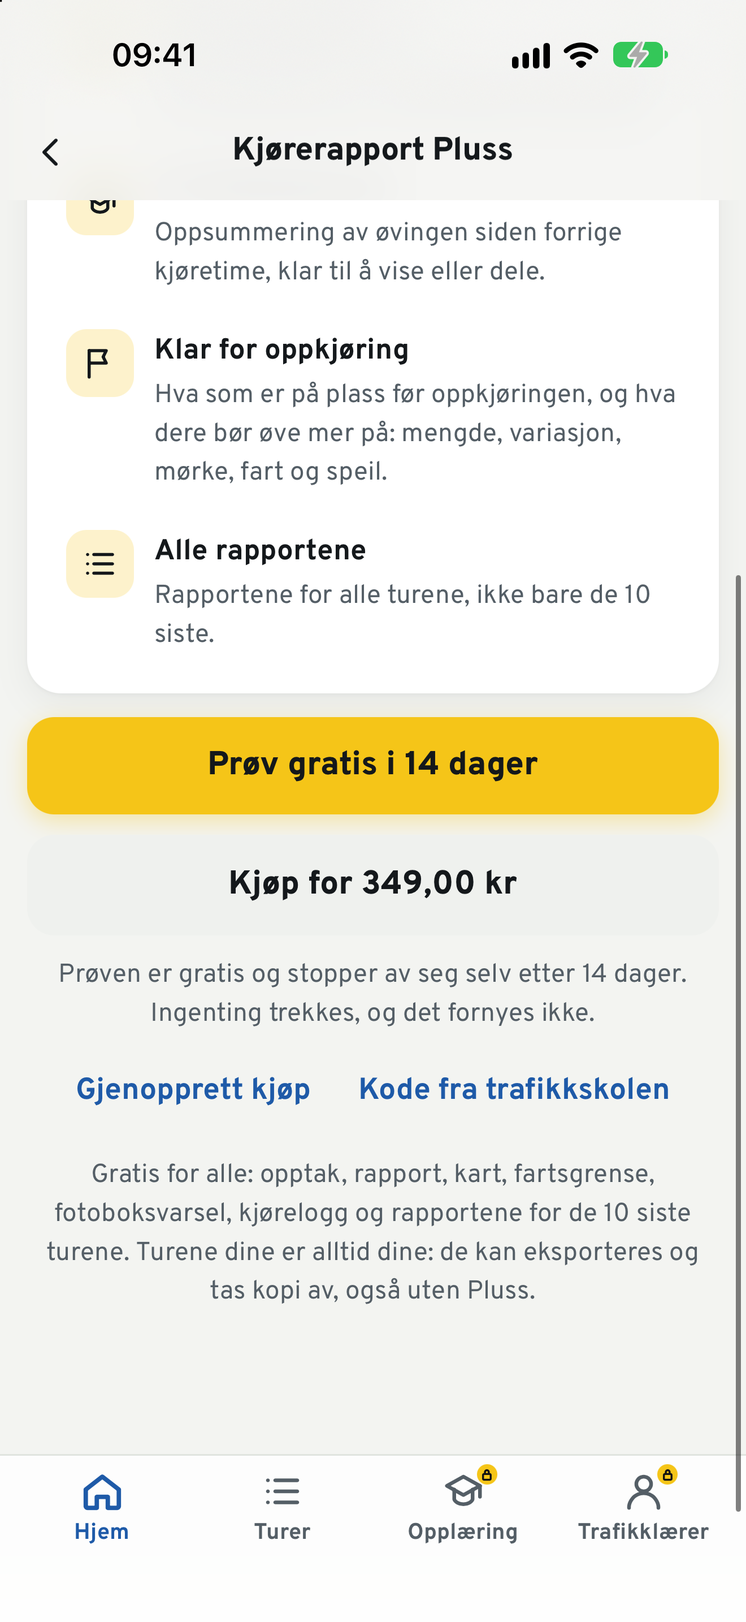
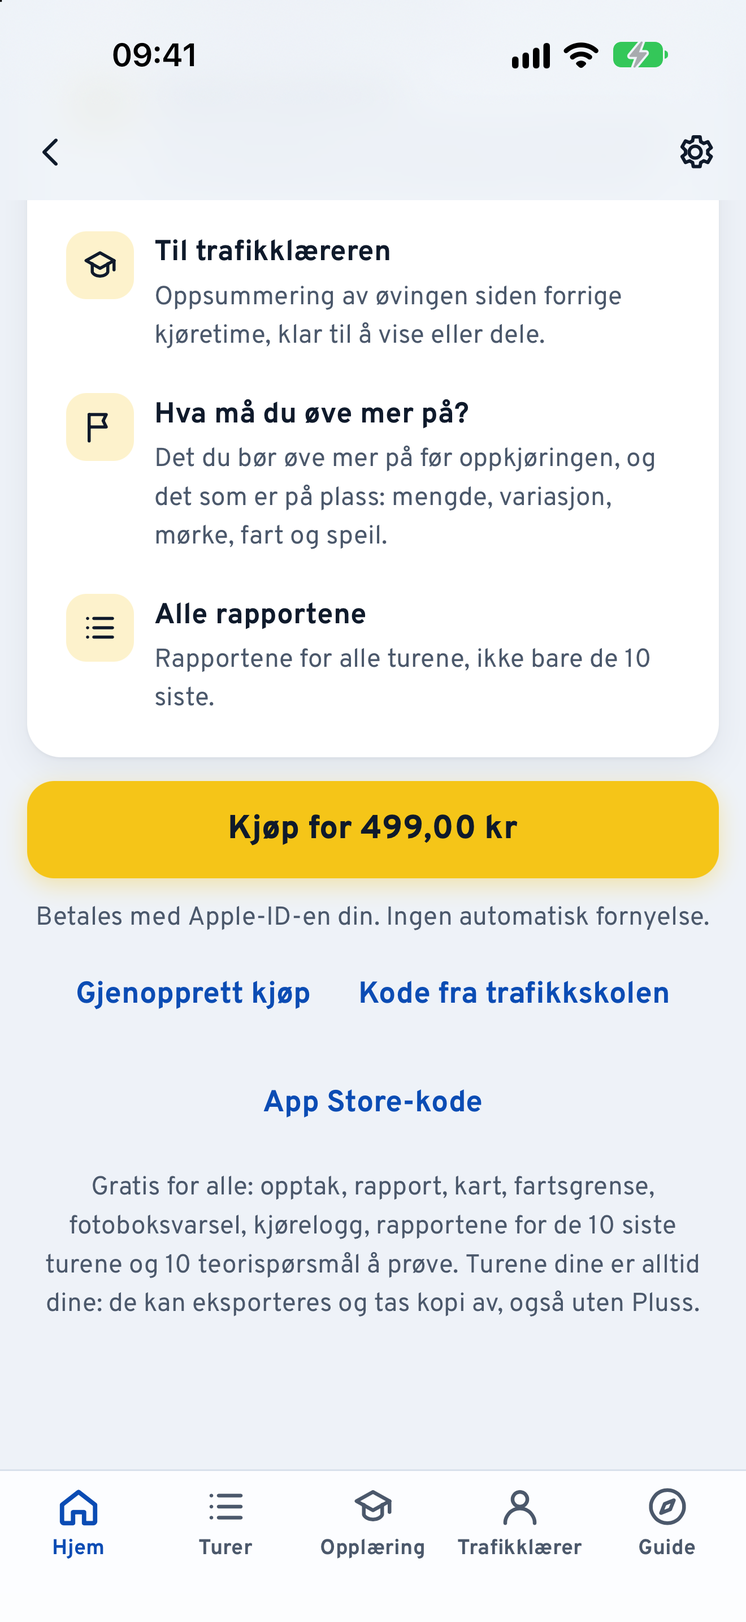
1.0.0: new App Store screenshots, and the full-screen map reaches the bottom edge
- Eight new App Store images for 1.0.0, theory first, in the «Skilt og vei» colours, made from the Emma test data; the Pluss review image retaken; the screenshot tools updated.
- The full-screen map in the iPhone app no longer stops above the home indicator: the map fills the screen, and its buttons and source line move in by the safe area.

diff --git a/appstore/verktoy/seed.js b/appstore/verktoy/seed.js
@@ -1,39 +1,74 @@
-// Testdata til App Store-bildene (bare testbygg, KJ_EVAL). Øvingsturer laget av demoturen, lagt langs ekte gater.
+// Testdata til App Store-bildene (bare testbygg, KJ_EVAL). Den oppdiktede eleven Emma, som i demoen (js/demo.js), men i
+// den vanlige lagringen, så demolinjen «Demo med Emma» ikke vises: åtte øvingsturer langs offentlige gater i Trondheim
+// som blir roligere over tid, teori med tre prøver og en prøvedato, og Pluss på. Ingenting her er ekte.
+// 1.0.0 (22.11.2026): sletter alle turer og innstillinger i simulatorappen første gang.
 (async () => {
-  const plus = await import(new URL('js/plus.js', location.href).href);
-  plus.setDevPlus(true);
-  if (localStorage.getItem('kjShotsSeeded') === '6') return;
-  const db = await import(new URL('js/db.js', location.href).href), an = await import(new URL('js/analysis.js', location.href).href);
-  const ROUTE = [[63.43084, 10.39516], [63.43084, 10.39508], [63.43085, 10.39489], [63.43089, 10.39487], [63.43121, 10.39469], [63.43151, 10.39453], [63.4316, 10.39448], [63.43186, 10.39433], [63.43194, 10.39429], [63.43196, 10.39428], [63.43205, 10.39422], [63.43213, 10.39418], [63.4325, 10.39398], [63.43274, 10.39384], [63.43308, 10.39365], [63.43314, 10.39362], [63.43317, 10.39359], [63.43328, 10.39353], [63.43333, 10.39351], [63.43343, 10.39345], [63.43355, 10.3934], [63.43363, 10.3934], [63.43371, 10.39342], [63.43382, 10.39353], [63.43382, 10.39354], [63.43387, 10.39363], [63.43391, 10.39373], [63.43412, 10.39443], [63.43427, 10.39505], [63.43434, 10.39537], [63.43436, 10.39555], [63.43438, 10.3957], [63.43441, 10.39593], [63.43448, 10.39683], [63.43448, 10.39686], [63.43449, 10.3971], [63.4345, 10.39727], [63.43453, 10.39769], [63.43458, 10.39843], [63.43459, 10.39856], [63.43463, 10.39918], [63.43468, 10.39986], [63.43469, 10.39992], [63.4347, 10.40021], [63.4348, 10.40018], [63.43489, 10.40015], [63.43491, 10.40014], [63.43506, 10.40012], [63.4352, 10.40009], [63.43539, 10.40006], [63.4355, 10.40005], [63.43569, 10.40003], [63.4357, 10.40002], [63.43577, 10.40002], [63.4358, 10.40002], [63.43586, 10.40002], [63.43588, 10.40015], [63.43588, 10.40028], [63.43589, 10.40268], [63.4359, 10.40318], [63.43589, 10.4034], [63.43596, 10.40344], [63.43606, 10.40353], [63.43607, 10.40354], [63.43612, 10.40358], [63.43617, 10.40364], [63.43617, 10.40365], [63.43649, 10.40407], [63.43661, 10.40425], [63.43663, 10.40428], [63.43669, 10.40445], [63.43673, 10.4046], [63.43676, 10.40472], [63.43679, 10.40487], [63.43684, 10.40514], [63.43687, 10.40539], [63.43689, 10.40609], [63.43689, 10.40611], [63.4369, 10.40637], [63.4369, 10.40641], [63.4369, 10.40658], [63.43691, 10.40678], [63.43691, 10.40698], [63.43692, 10.40704], [63.43695, 10.40843], [63.43697, 10.40916], [63.437, 10.41014], [63.437, 10.4103], [63.43702, 10.41183], [63.43699, 10.41344], [63.43697, 10.41365], [63.43694, 10.41476], [63.43694, 10.41504], [63.43694, 10.41512], [63.43694, 10.41513], [63.43694, 10.41596], [63.43688, 10.41647], [63.43686, 10.41653], [63.43677, 10.41675], [63.43669, 10.41688], [63.43667, 10.41691], [63.43667, 10.41692], [63.4366, 10.41698], [63.43659, 10.41699], [63.43653, 10.41704], [63.43634, 10.41713], [63.43631, 10.41714], [63.43623, 10.41716], [63.43607, 10.41712], [63.43602, 10.41711], [63.436, 10.41705], [63.43598, 10.417], [63.43592, 10.41694], [63.43588, 10.41692], [63.43584, 10.41693], [63.43581, 10.41695], [63.43578, 10.41697], [63.43578, 10.41698], [63.43575, 10.41703], [63.43559, 10.41681], [63.43555, 10.41675], [63.43555, 10.41674], [63.43534, 10.41629], [63.4351, 10.41574], [63.43506, 10.41563], [63.43493, 10.41534], [63.4348, 10.41504], [63.43474, 10.4149], [63.4346, 10.41457], [63.43454, 10.41445], [63.43452, 10.4144], [63.43441, 10.41426], [63.43439, 10.4142], [63.43432, 10.41405], [63.4341, 10.41348], [63.4341, 10.41346], [63.43393, 10.41302], [63.43383, 10.41274], [63.43376, 10.41253], [63.43368, 10.41232], [63.43367, 10.4123], [63.43351, 10.41182], [63.4335, 10.41181], [63.43337, 10.41143], [63.43328, 10.4112], [63.43318, 10.41127], [63.43298, 10.41161], [63.43291, 10.41171], [63.4328, 10.41187], [63.43278, 10.41191], [63.43272, 10.412], [63.43266, 10.4121], [63.43264, 10.41213], [63.43243, 10.41247], [63.43242, 10.41248], [63.43234, 10.41261], [63.43226, 10.41274], [63.43219, 10.41286], [63.43213, 10.41295], [63.43208, 10.41298], [63.43185, 10.4131], [63.43163, 10.41321], [63.43161, 10.41322], [63.43148, 10.41328], [63.43142, 10.41334], [63.4314, 10.41335], [63.43131, 10.41349], [63.43112, 10.4139], [63.43111, 10.41392], [63.43099, 10.41419], [63.43092, 10.41436], [63.43085, 10.41452], [63.4308, 10.41462], [63.4308, 10.41463], [63.43079, 10.41466], [63.43075, 10.41474], [63.43073, 10.41479], [63.43064, 10.41504], [63.43058, 10.4152], [63.43056, 10.41528], [63.43051, 10.41541], [63.43046, 10.41556], [63.43043, 10.41564], [63.43017, 10.4164], [63.43014, 10.4165], [63.43009, 10.41663], [63.42998, 10.41684], [63.42997, 10.41687], [63.42996, 10.4172], [63.42996, 10.41748], [63.42996, 10.41793], [63.42996, 10.418], [63.42996, 10.41802], [63.42995, 10.41807], [63.42994, 10.41809], [63.42993, 10.41808], [63.4297, 10.41746], [63.4297, 10.41745], [63.42946, 10.41681], [63.42946, 10.4168], [63.42927, 10.41631], [63.42926, 10.41629], [63.42925, 10.41628], [63.42922, 10.4162], [63.42907, 10.41607], [63.42903, 10.41605], [63.42898, 10.41604], [63.4286, 10.41615], [63.42842, 10.4162], [63.42789, 10.41635], [63.42787, 10.41635], [63.42776, 10.41638], [63.42753, 10.41644], [63.42688, 10.41661], [63.42667, 10.41666], [63.42649, 10.41671], [63.42648, 10.41672], [63.42635, 10.41675], [63.42619, 10.41679], [63.42598, 10.41685], [63.42593, 10.41686], [63.4259, 10.41687], [63.42589, 10.41687], [63.42572, 10.41692], [63.42568, 10.41693], [63.42563, 10.41694], [63.42562, 10.41694], [63.42561, 10.41694], [63.42553, 10.41696], [63.42543, 10.41697], [63.42541, 10.41698], [63.42538, 10.41698], [63.42511, 10.41697], [63.42489, 10.41678], [63.42463, 10.41651], [63.42457, 10.41645], [63.42439, 10.41626], [63.42377, 10.41564], [63.42365, 10.41547], [63.42354, 10.41532], [63.42347, 10.41522], [63.42336, 10.41504], [63.42319, 10.41472], [63.42318, 10.4147], [63.42315, 10.41464], [63.42307, 10.41445], [63.42304, 10.41438], [63.42303, 10.41436], [63.42291, 10.41406], [63.42288, 10.41396], [63.42287, 10.41395], [63.42285, 10.41388], [63.42283, 10.41382], [63.42276, 10.4136], [63.4226, 10.41316], [63.42258, 10.41282], [63.42258, 10.4128], [63.42259, 10.41274], [63.42259, 10.41272], [63.42261, 10.41263], [63.42264, 10.41253], [63.42266, 10.41251], [63.42272, 10.41241], [63.4229, 10.41228], [63.42291, 10.41227], [63.42304, 10.41217], [63.42326, 10.41201], [63.42331, 10.41198], [63.42332, 10.41198], [63.42354, 10.41183], [63.42359, 10.4118], [63.42393, 10.41157], [63.42395, 10.41159], [63.42399, 10.41166], [63.424, 10.41168], [63.42401, 10.41169], [63.42405, 10.41172], [63.42422, 10.41188], [63.42428, 10.41195], [63.42439, 10.41204], [63.4244, 10.41206], [63.42447, 10.41217], [63.42453, 10.41231], [63.42459, 10.41255], [63.42465, 10.41287], [63.42468, 10.41285], [63.42472, 10.41281], [63.42473, 10.4128], [63.42483, 10.41267], [63.42488, 10.4126], [63.42488, 10.41259], [63.42507, 10.41232], [63.42519, 10.41217], [63.42523, 10.41215], [63.42552, 10.41206], [63.42558, 10.41202], [63.42568, 10.4119], [63.42578, 10.41172], [63.42589, 10.41147], [63.42601, 10.41106], [63.42605, 10.4109], [63.42615, 10.41047], [63.42619, 10.41033], [63.42633, 10.41002], [63.42638, 10.40994], [63.42669, 10.40954], [63.42674, 10.40945], [63.42675, 10.40944], [63.42682, 10.40932], [63.42684, 10.40925], [63.42685, 10.40922], [63.42693, 10.40904], [63.42703, 10.40883], [63.42729, 10.4083], [63.42743, 10.40806], [63.42762, 10.40787], [63.42772, 10.4078], [63.42778, 10.40772], [63.42779, 10.4077], [63.42782, 10.40764], [63.42785, 10.40748], [63.42786, 10.40746], [63.42788, 10.4073], [63.42789, 10.40717], [63.42796, 10.40633], [63.42798, 10.40607], [63.42812, 10.40607], [63.42827, 10.40609], [63.42831, 10.4061], [63.42839, 10.40611], [63.42872, 10.40618], [63.4292, 10.40624], [63.42939, 10.40625], [63.4294, 10.40625], [63.42951, 10.40636], [63.42962, 10.40656], [63.42973, 10.40688], [63.42985, 10.40718], [63.42991, 10.40733], [63.43002, 10.40761], [63.43014, 10.40793], [63.43025, 10.4082], [63.4303, 10.40812], [63.43048, 10.40776], [63.43049, 10.40775], [63.43049, 10.40773], [63.43074, 10.40726], [63.43086, 10.40743], [63.43095, 10.40768], [63.4311, 10.40805], [63.43134, 10.40864], [63.43159, 10.40928], [63.43188, 10.40997], [63.43208, 10.41044], [63.43211, 10.41054], [63.43233, 10.41108], [63.43237, 10.41116], [63.43255, 10.41159], [63.43267, 10.41187], [63.43272, 10.412], [63.43278, 10.41191], [63.4328, 10.41187], [63.43291, 10.41171], [63.43298, 10.41161], [63.43318, 10.41127], [63.43328, 10.4112], [63.43323, 10.41106], [63.43323, 10.41105], [63.43321, 10.41097], [63.43318, 10.41091], [63.43318, 10.41087], [63.43308, 10.41049], [63.4329, 10.41003], [63.43269, 10.40947], [63.43252, 10.40907], [63.43234, 10.40862], [63.43228, 10.40849], [63.43227, 10.40847], [63.43225, 10.40832], [63.43223, 10.4082], [63.43222, 10.40815], [63.43223, 10.40808], [63.43223, 10.40804], [63.43225, 10.40789], [63.43227, 10.40777], [63.43229, 10.40769], [63.4323, 10.40764], [63.43232, 10.40752], [63.43232, 10.4075], [63.43242, 10.40686], [63.43246, 10.40668], [63.43248, 10.4066], [63.43249, 10.40655], [63.43251, 10.4065], [63.43262, 10.40591], [63.43267, 10.40568], [63.43268, 10.40566], [63.4327, 10.40554], [63.43279, 10.40511], [63.43297, 10.40418], [63.43298, 10.40413], [63.43301, 10.40403], [63.43302, 10.40397], [63.43308, 10.40371], [63.43312, 10.40351], [63.43315, 10.40333], [63.4332, 10.40305], [63.43326, 10.40273], [63.43331, 10.40244], [63.43332, 10.40241], [63.43332, 10.40229], [63.43333, 10.40203], [63.43333, 10.40174], [63.43332, 10.40123], [63.43332, 10.40089], [63.43332, 10.40047], [63.43332, 10.40042], [63.43332, 10.4002], [63.43322, 10.40021], [63.43302, 10.4002], [63.43278, 10.40019], [63.4327, 10.40019], [63.43266, 10.40019], [63.43202, 10.40019], [63.432, 10.40019], [63.43192, 10.40019], [63.43192, 10.4], [63.43192, 10.39974], [63.43193, 10.39942], [63.43194, 10.39767], [63.43194, 10.39753], [63.43194, 10.3974], [63.43194, 10.39712], [63.43195, 10.39595], [63.43196, 10.3947], [63.43196, 10.39453], [63.43196, 10.39428], [63.43194, 10.39429], [63.43186, 10.39433], [63.4316, 10.39448], [63.43151, 10.39453], [63.43121, 10.39469], [63.43089, 10.39487], [63.43085, 10.39489], [63.43084, 10.39508], [63.43084, 10.39516]];
+  const js = f => import(new URL('js/' + f, location.href).href);
+  const plus = await js('plus.js');
+  plus.setDevPlus(true);   // Pluss på (bare i minnet, hver gang appen starter)
+  if (localStorage.getItem('kjShotsSeeded') === '11') return;
+  const [db, an, demo, { DEMO_ROUTE: ROUTE }] = await Promise.all([js('db.js'), js('analysis.js'), js('demo.js'), js('demo-route.js')]);
+  const now = Date.now(), DAY = 86400000;
   const R = 6371000, rad = Math.PI / 180;
-  const dist = (a, b) => { const x = (b[1] - a[1]) * rad * Math.cos(a[0] * rad), y = (b[0] - a[0]) * rad; return Math.hypot(x, y) * R; };
+  const dist = (a, b) => Math.hypot((b[1] - a[1]) * rad * Math.cos(a[0] * rad), (b[0] - a[0]) * rad) * R;
   const cum = [0]; for (let i = 1; i < ROUTE.length; i++) cum.push(cum[i - 1] + dist(ROUTE[i - 1], ROUTE[i]));
   const total = cum[cum.length - 1];
-  const at = s => { s = ((s % total) + total) % total; let i = 1; while (i < cum.length - 1 && cum[i] < s) i++; const a = ROUTE[i - 1], b = ROUTE[i], f = (s - cum[i - 1]) / ((cum[i] - cum[i - 1]) || 1);
-    const brg = (Math.atan2((b[1] - a[1]) * Math.cos(a[0] * rad), b[0] - a[0]) / rad + 360) % 360; return { lat: a[0] + (b[0] - a[0]) * f, lon: a[1] + (b[1] - a[1]) * f, bearing: brg }; };
+  const at = s => {
+    s = ((s % total) + total) % total; let i = 1; while (i < cum.length - 1 && cum[i] < s) i++;
+    const a = ROUTE[i - 1], b = ROUTE[i], f = (s - cum[i - 1]) / ((cum[i] - cum[i - 1]) || 1);
+    return { lat: a[0] + (b[0] - a[0]) * f, lon: a[1] + (b[1] - a[1]) * f, bearing: (Math.atan2((b[1] - a[1]) * Math.cos(a[0] * rad), b[0] - a[0]) / rad + 360) % 360 };
+  };
   for (const d of await db.listDrives()) await db.deleteDrive(d.id);
-  // [start, frø, hvor på ruta, hvor brå (1 = som demoturen)]: eldre turer brå, de nyeste mykere
-  const drives = [['2026-10-14T15:20:00Z', 3, 0, 1.3], ['2026-10-17T10:05:00Z', 5, 900, 1.2], ['2026-10-21T16:40:00Z', 7, 1800, 1.1], ['2026-10-24T12:10:00Z', 9, 400, 1.0],
-    ['2026-10-28T17:30:00Z', 11, 2600, 0.95], ['2026-10-31T09:45:00Z', 13, 1200, 0.9], ['2026-11-02T16:15:00Z', 15, 3100, 0.85], ['2026-11-04T15:50:00Z', 17, 200, 0.75]];
-  for (const [i, [startedAt, seed, offset, k]] of drives.entries()) {
-    // Tre runder av demoturen etter hverandre (rundt 15 min)
-    const parts = [0, 1, 2].map(r => an.makeDemo(seed + r * 100, { yaw: 0.7, pitch: 0.35 }));
+  // [dager siden, klokka, frø, hvor på ruta, hvor brå (1 = som demoturen), runder]: eldre turer brå, de nyeste mykere
+  const plan = [[34, 17, 3, 0, 1.3, 2], [31, 12, 5, 900, 1.2, 3], [27, 18, 7, 1800, 1.1, 2], [24, 14, 9, 400, 1.0, 4], [20, 19, 11, 2600, 0.95, 3], [16, 11, 13, 1200, 0.9, 5], [11, 18, 15, 3100, 0.85, 3], [2, 17, 17, 200, 0.75, 4]];
+  for (const [i, [ago, hour, seed, offset, k, rounds]] of plan.entries()) {
+    const parts = Array.from({ length: rounds }, (_, r) => an.makeDemo(seed + r * 100, { yaw: 0.7, pitch: 0.35 }));
     const input = { loc: [], gyro: [], grav: [], acc: [] };
     let t0 = 0;
     for (const p of parts) { for (const key of ['loc', 'gyro', 'grav', 'acc']) for (const x of p[key]) input[key].push({ ...x, t: x.t + t0 }); t0 += p.gyro[p.gyro.length - 1].t + 0.1; }
-    // Bykjøring: demoturen kjører opptil 70 km/t, sentrumsgatene har 30–50
-    input.loc = input.loc.map(p => ({ ...p, speed: p.speed * 0.68 }));
+    input.loc = input.loc.map(p => ({ ...p, speed: p.speed * 0.68 }));   // bykjøring: gatene har 30–50
     input.acc = input.acc.map(a => ({ ...a, x: a.x * k * 0.75, y: a.y * k * 0.75, z: a.z * k * 0.75 }));
     input.gyro = input.gyro.map(a => ({ ...a, x: a.x * k, y: a.y * k, z: a.z * k }));
     if (k < 1) { const sp = input.loc.map(p => p.speed), w = Math.round((1 - k) * 6); input.loc = input.loc.map((p, j) => { let t = 0, n = 0; for (let q = Math.max(0, j - w); q <= Math.min(sp.length - 1, j + w); q++) { t += sp[q]; n++; } return { ...p, speed: t / n }; }); }
+    // Den nyeste turen holder fartsgrensen i sentrum (30–50 km/t): Emma har øvd på fart siden forrige gang
+    if (i === plan.length - 1) input.loc = input.loc.map(p => ({ ...p, speed: p.speed < 7 ? p.speed : 7 + (p.speed - 7) * 0.25 }));
     let s = offset, prev = null;
     input.loc = input.loc.map(p => { if (prev) s += Math.max(0, (p.speed + prev.speed) / 2) * (p.t - prev.t); prev = p; const q = at(s); return { ...p, lat: q.lat, lon: q.lon, bearing: q.bearing }; });
-    await db.importDrive({ drive: { id: 'emma' + i, startedAt, driver: 'Emma', imported: false }, input }, { keepId: true });
+    const start = new Date(now - ago * DAY); start.setHours(hour, (i * 13) % 60, 0, 0);
+    await db.importDrive({ drive: { id: 'emma' + i, startedAt: start.toISOString(), driver: 'Emma', imported: false, surface: 'dry' }, input }, { keepId: true });
   }
-  const st = db.getSettings();
-  db.saveSettings({ ...st, drivers: ['Emma'], activeDriver: 'Emma', introSeen: true, lastBackupAt: new Date().toISOString(), hideInstallHint: true,
+  // Innstillingene fra bunnen av: bare Emma, ingen elevliste, meldinger eller lekser fra tidligere tester
+  for (const key of Object.keys(localStorage)) if (key.startsWith('kjorerapport.')) localStorage.removeItem(key);
+  // Teorien som i demoen, og litt øving tidligere i dag, så dagens mål ikke står på 0 når bildene tas om morgenen
+  const [th, { QUESTIONS }] = await Promise.all([js('theory.js'), js('theory-b.js')]);
+  let theory = demo.emmaTheory(now);
+  const midnight = new Date(now).setHours(0, 0, 0, 0), from = Math.max(midnight + 300000, now - 100 * 60000);
+  const due = th.dueList(QUESTIONS, theory, now).slice(0, 36), step = (now - 120000 - from) / Math.max(1, due.length);
+  if (step > 0) due.forEach((q, i) => { theory = th.answer(theory, q.id, i % 9 === 4 ? 1 : 0, from + i * step); });
+  // Sikkerhetskontrollen: 27 av 46 oppgaver kan hun, og quizen er halvveis (lært = tre riktige spredt over dager)
+  const [{ SAFETY }, { SAFETY_QUIZ }] = await Promise.all([js('safety-check.js'), js('safety-quiz.js')]);
+  SAFETY.forEach((t, i) => { if (i % 5 !== 2 && i % 7 !== 3) theory = th.markSafety(theory, t.id, i % 9 !== 8, now - (20 - (i % 14)) * DAY); });
+  SAFETY_QUIZ.forEach((q, i) => {
+    if (i % 2 === 0) for (const d of [12, 11, 9]) theory = th.answer(theory, q.id, 0, now - d * DAY + 18 * 3600000);
+    else if (i % 4 === 1) theory = th.answer(theory, q.id, i % 8 === 5 ? 1 : 0, now - 2 * DAY + 18 * 3600000);
+  });
+  // Skiltprøven: 75 av 123 skilt lært
+  const { SIGN_QUESTIONS } = await js('theory-signs.js');
+  SIGN_QUESTIONS.forEach((q, i) => {
+    if (i % 5 < 3) for (const d of [13, 12, 10]) theory = th.answer(theory, q.id, 0, now - d * DAY + 19 * 3600000);
+    else if (i % 5 === 3) theory = th.answer(theory, q.id, i % 10 === 8 ? 1 : 0, now - 3 * DAY + 19 * 3600000);
+  });
+  // Forrige kjøretime for 18 dager siden, så «siden sist» på trafikklærersiden har tre turer
+  const lesson = new Date(now - 18 * DAY).toISOString().slice(0, 10);
+  db.saveSettings({
+    ...db.getSettings(), name: 'Emma', drivers: ['Emma'], activeDriver: 'Emma', homeDriver: 'Emma', viewMode: 'plus', devPlus: '',
+    introSeen: true, camIntroSeen: true, hideInstallHint: true, permOk: true, lockTipShown: 2, lastBackupAt: new Date(now).toISOString(),
+    devMarks: false,   // ingen testknapper («Feltskifte», «Feil grense») på opptaksskjermen
     guidesClosed: { start: true, holder: true, camera: true, report: true, backup: true, teacher: true, dark: true },
-    lessons: { Emma: '2026-10-27' }, curriculum: { Emma: { tgk: { done: true, at: '2026-08-20T10:00:00Z' }, teori: { done: true, at: '2026-09-12T10:00:00Z' }, trinn2: { done: true, at: '2026-10-27T10:00:00Z' } } } });
-  localStorage.setItem('kjShotsSeeded', '6');
+    focus: ['roundabout', 'mirror'], lessons: { Emma: lesson },
+    curriculum: { Emma: { tgk: { done: true, at: new Date(now - 90 * DAY).toISOString() }, teori: { done: true, at: new Date(now - 60 * DAY).toISOString() }, trinn2: { done: true, at: new Date(now - 18 * DAY).toISOString() } } },
+    theory: { Emma: theory }
+  });
+  localStorage.setItem('kjShotsSeeded', '11');
   location.reload();
 })().catch(e => console.error('seed', e));

diff --git a/appstore/verktoy/pluss-av.js b/appstore/verktoy/pluss-av.js
@@ -1,4 +1,9 @@
-// Bilde av Pluss-siden til App Review (kjøpene i App Store Connect): Pluss av, som for en ny bruker, med pris og
-// prøveperiode slik App Store svarer (simulatoren startet uten Xcode har ingen testkjøp).
-if (window.kjNative) window.kjNative.plusStatus = async () => ({ owned: false, available: true, price: '349,00 kr', trialAvailable: true, trialEnd: null });
-import(new URL('js/plus.js', location.href).href).then(p => { p.setDevPlus(null); setTimeout(() => { location.hash = '#/'; setTimeout(() => { location.hash = '#/pluss'; }, 400); }, 1500); });
+// Bilde av Pluss-siden til App Review (kjøpene i App Store Connect): Pluss av, som for en ny bruker, med prisen slik
+// App Store svarer (simulatoren startet uten Xcode har ingen testkjøp). 499 kr og ingen prøveperiode (0.23.0).
+// Visningen må stå på «Som App Store» (viewMode 'app'), ellers slår testbygget på Pluss selv.
+if (window.kjNative) window.kjNative.plusStatus = async () => ({ owned: false, available: true, price: '499,00 kr', trialAvailable: false, trialEnd: null });
+import(new URL('js/plus.js', location.href).href).then(async p => {
+  p.setDevPlus(null);
+  await p.refreshPlus().catch(() => {});
+  setTimeout(() => { location.hash = '#/innstillinger'; setTimeout(() => { location.hash = '#/pluss'; }, 600); }, 1500);
+});

diff --git a/css/app.css b/css/app.css
@@ -291,7 +291,11 @@ select { width: 100%; min-height: 52px; font: inherit; padding: 10px 12px; borde
 .lmap-wrap { position: relative; z-index: 0; }   /* egen stabel: kartets knapper og lag havner ikke over fanelinjen (0.11.4) */
 .lmap { height: 380px; border-radius: 10px; overflow: hidden; background: var(--bg); z-index: 0; }
 .lmap-toggle { position: absolute; right: 10px; bottom: 26px; z-index: 500; box-shadow: 0 2px 6px rgba(0,0,0,.25); }
-.lmap-wrap.expanded { position: fixed; inset: 0; z-index: 2000; background: var(--bg); padding: env(safe-area-inset-top) env(safe-area-inset-right) env(safe-area-inset-bottom) env(safe-area-inset-left); }
+/* Fullskjerm (1.0.0): kartet går helt ut i kantene, også bak hjemlinjen nederst; knappene og kildelinja flyttes inn i stedet */
+.lmap-wrap.expanded { position: fixed; inset: 0; z-index: 2000; background: var(--bg); }
+.lmap-wrap.expanded .leaflet-bottom { bottom: env(safe-area-inset-bottom); }
+.lmap-wrap.expanded .leaflet-left { left: env(safe-area-inset-left); }
+.lmap-wrap.expanded .leaflet-right { right: env(safe-area-inset-right); }
 .lmap-wrap.expanded .lmap { height: 100%; border-radius: 0; }
 .lmap-wrap.expanded .lmap-toggle { bottom: calc(26px + env(safe-area-inset-bottom)); }
 body.map-open { overflow: hidden; }

diff --git a/appstore/verktoy/compose.py b/appstore/verktoy/compose.py
@@ -1,12 +1,19 @@
 # App Store-bilder: 1320 × 2868 (6,9"), overskrift øverst og skjermbildet under med avrundede hjørner.
-import sys, json, os
+# 1.0.0 (22.11.2026): fargene fra designprofilen «Skilt og vei» (veiblå bakgrunn som skiltkortet, gul midtlinje),
+# og telefonen står likt på alle bildene, så settet ser helt ut i App Store.
+#   ~/.local/mlenv/bin/python compose.py      (råbildene ligger i raw/raw-<navn>.png, navnene står i captions.json)
+import json, os
 from PIL import Image, ImageDraw, ImageFont, ImageFilter
 HERE = os.path.dirname(os.path.abspath(__file__))
 SP = os.path.join(HERE, 'raw')   # råbildene fra simulatoren: raw-<navn>.png
 OUT = os.path.join(HERE, '..', 'skjermbilder')
 FONT = os.path.join(HERE, '..', '..', 'fonts', 'overpass-latin.woff2')
 W, H = 1320, 2868
-BG, INK, SUB, ACC = (27, 31, 34), (247, 248, 246), (190, 197, 201), (245, 198, 26)
+BRAND, BRAND2 = (11, 76, 180), (8, 59, 143)       # --brand og --brand-2 i css/theme.css
+INK, SUB, ACC = (255, 255, 255), (211, 224, 247), (245, 197, 24)   # tekst og undertekst som i skiltkortet, midtlinjegul
+BEZEL, SHADOW = (15, 26, 43), (2, 18, 52)
+MARGIN = 110
+PHONE_TOP, PHONE_BOTTOM = 704, 70   # skjermens øverste kant, og luft under telefonen
 
 def font(size, weight):
     f = ImageFont.truetype(FONT, size)
@@ -15,37 +22,54 @@ def font(size, weight):
     return f
 
 def wrap(draw, text, f, maxw):
-    words, lines, cur = text.split(), [], ''
+    words = text.split()
+    if draw.textlength(text, font=f) <= maxw: return [text]
+    # To jevne linjer i stedet for ett ord alene på siste linje («… siden / sist.»), helst delt etter komma eller punktum
+    best = None
+    for i in range(1, len(words)):
+        a, b = ' '.join(words[:i]), ' '.join(words[i:])
+        wa, wb = draw.textlength(a, font=f), draw.textlength(b, font=f)
+        score = max(wa, wb) - (180 if a[-1] in ',.' else 0)
+        if wa <= maxw and wb <= maxw and (best is None or score < best[0]): best = (score, [a, b])
+    if best: return best[1]
+    lines, cur = [], ''
     for w in words:
         t = (cur + ' ' + w).strip()
         if draw.textlength(t, font=f) <= maxw: cur = t
         else: lines.append(cur); cur = w
-    lines.append(cur)
-    return lines
+    return lines + [cur]
+
+def background():
+    # Skrå overgang fra veiblå til mørkere blå, som skiltkortet i appen
+    top, bot = Image.new('RGB', (W, H), BRAND), Image.new('RGB', (W, H), BRAND2)
+    mask = Image.linear_gradient('L').rotate(-20, resample=Image.BICUBIC, expand=True)
+    mask = mask.resize((W * 2, H * 2)).crop((W // 2, H // 2, W // 2 + W, H // 2 + H))
+    return Image.composite(bot, top, mask)
 
 def compose(raw, title, sub, out):
-    im = Image.new('RGB', (W, H), BG)
+    im = background()
     d = ImageDraw.Draw(im)
-    # Gul strek som i appens veibilde
-    d.rounded_rectangle((110, 150, 230, 166), 8, fill=ACC)
+    d.rounded_rectangle((MARGIN, 150, MARGIN + 120, 166), 8, fill=ACC)   # gul strek som midtlinja i appens veibilde
     ft, fs = font(104, 800), font(50, 500)
     y = 210
-    for line in wrap(d, title, ft, W - 220):
-        d.text((110, y), line, font=ft, fill=INK); y += 118
+    title_lines, sub_lines = wrap(d, title, ft, W - 2 * MARGIN), wrap(d, sub, fs, W - 2 * MARGIN)
+    if len(title_lines) > 2 or len(sub_lines) > 2: raise SystemExit(f'For lang tekst: {title}')
+    for line in title_lines:
+        d.text((MARGIN, y), line, font=ft, fill=INK); y += 118
     y += 18
-    for line in wrap(d, sub, fs, W - 220):
-        d.text((110, y), line, font=fs, fill=SUB); y += 66
+    for line in sub_lines:
+        d.text((MARGIN, y), line, font=fs, fill=SUB); y += 66
+    if y + 40 > PHONE_TOP - 14: raise SystemExit(f'Teksten går inn i telefonen: {title}')
     shot = Image.open(raw).convert('RGB')
-    sw = 1010; sh = round(shot.height * sw / shot.width)
+    sh = H - PHONE_TOP - PHONE_BOTTOM; sw = round(shot.width * sh / shot.height)
     shot = shot.resize((sw, sh), Image.LANCZOS)
-    top = max(y + 60, 640)
-    x = (W - sw) // 2
-    mask = Image.new('L', (sw, sh), 0); ImageDraw.Draw(mask).rounded_rectangle((0, 0, sw - 1, sh - 1), 72, fill=255)
-    # Skygge og en tynn kant rundt «telefonen»
-    shadow = Image.new('L', (W, H), 0); ImageDraw.Draw(shadow).rounded_rectangle((x, top + 24, x + sw, top + sh + 24), 80, fill=150)
-    im.paste((0, 0, 0), (0, 0), shadow.filter(ImageFilter.GaussianBlur(40)))
+    x, top, r, b = (W - sw) // 2, PHONE_TOP, 112, 14
+    mask = Image.new('L', (sw, sh), 0); ImageDraw.Draw(mask).rounded_rectangle((0, 0, sw - 1, sh - 1), r, fill=255)
+    # Skygge og en mørk kant rundt «telefonen»
+    shadow = Image.new('L', (W, H), 0); ImageDraw.Draw(shadow).rounded_rectangle((x, top + 30, x + sw, top + sh + 30), r + b, fill=140)
+    im.paste(SHADOW, (0, 0), shadow.filter(ImageFilter.GaussianBlur(44)))
     d = ImageDraw.Draw(im)
-    d.rounded_rectangle((x - 14, top - 14, x + sw + 14, top + sh + 14), 86, fill=(58, 64, 69))
+    d.rounded_rectangle((x - b, top - b, x + sw + b, top + sh + b), r + b, fill=BEZEL)
     im.paste(shot, (x, top), mask)
     im.save(out, optimize=True)
 

diff --git a/appstore/README.md b/appstore/README.md
@@ -8,7 +8,7 @@ Everything that will go into App Store Connect and the app's settings file when 
 | --- | --- | --- |
 | 1 | **Models for sale** | **Done in 1.0.0.** D-FINE small (COCO only, Apache 2.0), road-tested since 0.13.17, is now the car model in git. The lane model is TwinLiteNet+ with the `n2` weights (comma10k MIT + A2D2 CC BY-ND 4.0), also road-tested since 0.13.7. Both are now in git, and the old overlay folder was renamed to `.local-test/app-models-n2/`, so Release builds no longer stop. |
 | 2 | **Road-test the sale version** | **Owner drives.** 1.0.0 with the shipping models was installed on the phone on 22 November. One long drive with both cameras, then `node tools/turrapport.mjs`. |
-| 3 | **Screenshots** | See section 9. |
+| 3 | **Screenshots** | **Done 22 Nov:** eight new images for 1.0.0, theory first, and a new `kjop-pluss-review.png` (section 9). |
 | 4 | **Description, promotional text, keywords** | Done (18 Nov); 1.0.0 adds the safety quiz. The owner reads it through. |
 | 5 | **Review notes** | Updated 22 Nov (section 7): the two code buttons, the safety quiz, and a driving-school code for the reviewer. |
 | 6 | **Age rating** | **Decided:** «Messaging and Chat» yes, everything else no (section 6). |
@@ -160,21 +160,30 @@ Contact information: your name, phone and email. No demo account is needed (no l
 
 ## 9. Screenshots
 
-**Done (0.11.4):** seven images in [`skjermbilder/`](skjermbilder/), 1320 × 2868 (6.9-inch iPhone, Apple scales them down to smaller phones). Upload them in this order:
+**Done (22 November 2026, app 1.0.0):** eight images in [`skjermbilder/`](skjermbilder/), 1320 × 2868 (6.9-inch iPhone, Apple scales them down to smaller phones). Theory is the main selling point, so it comes first. Upload them in this order:
 
-1. «Rapport etter hver øvingstur» – the top of the report.
-2. «Bare fartsgrensen på skjermen» – a real recording in the simulator, with the speed limit from NVDB.
-3. «Se hvor det skjedde» – the map in full screen with numbered events.
-4. «Hele øvingen samlet» – Turer, the driving log.
-5. «Klar til neste kjøretime» – Til trafikklæreren.
-6. «Hva må du øve mer på?»
-7. «I gang på et halvt minutt» – the check before driving.
+1. `01-teori.png` «Klar til teoriprøven» – the theory overview (Opplæring › Teori og sikkerhet): readiness ring 72 %, today's goal, the exam date and the last three practice tests.
+2. `02-sporsmal.png` «Tegninger og forklaring» – a theory question (fog lights) just after a right answer: the right option, the drawing of a road in fog, the rule, the legal reference and «Les mer i teoriboka». Scrolled so the whole explanation shows; the question itself is above.
+3. `03-kryss.png` «Hvem kjører først?» – a crossing with three cars on a priority road, the first car tapped.
+4. `04-sikkerhet.png` «Sikkerhetskontrollen» – a safety-check quiz question with the drawing of the car's brake lights.
+5. `05-rapport.png` «Rapport etter hver øvingstur» – the top of the report: score, «Nytt på denne turen» and «Kort fortalt».
+6. `06-opptak.png` «Bare fartsgrensen på skjermen» – a real recording in the simulator (simulated position along `ios/testrute-trondheim.txt`), with the speed limit from NVDB and without the test buttons.
+7. `07-kart.png` «Se hvor det skjedde» – the map in full screen with numbered events (braking, acceleration, turns) and speeding in red on the route.
+8. `08-laerer.png` «Klar til neste kjøretime» – Til trafikklæreren: what has been practised since the last lesson, and what to work on.
+
+[`kjop-pluss-review.png`](kjop-pluss-review.png) (retaken 22 November): the Pluss page as a new user sees it, with «Kjøp for 499,00 kr». A raw screenshot without caption, for the purchase review in App Store Connect.
 
 How they were made:
-- From the real app in the simulator (iPhone 18 Pro Max, light mode, Norwegian, the status bar set to 09:41).
-- The data is made-up practice drives for «Emma», laid along real streets in central Trondheim (`ios/testrute-trondheim.txt`). No real person's drives or addresses are shown.
-- The tools are in [`verktoy/`](verktoy/): `seed.js` (test data), `shot.sh` (one screenshot from the simulator) and `compose.py` (adds the captions from `captions.json`; needs Python with Pillow). To make new ones, ask Claude to «lag nye App Store-bilder».
-- The test build has a hook for this: `KJ_EVAL` (Debug only, WebAppView.swift) runs a script that fills in the test data.
+- From the real app (Debug build) in the simulator: iPhone 18 Pro Max, light mode, Norwegian, the status bar set to 09:41 (`xcrun simctl status_bar <id> override --time 9:41 …`).
+- The data is the made-up learner «Emma», as in the in-app demo (`js/demo.js`) but stored as normal data, so the demo bar never shows: eight practice drives along public streets in central Trondheim, theory with three practice tests and an exam date, and signs and the safety check half done. No real person's drives or addresses are shown. Pluss is on in images 1–8.
+- The tools are in [`verktoy/`](verktoy/):
+  - `seed.js` fills in the test data through the Debug-only `KJ_EVAL` hook (`WebAppView.swift`). The first time, it deletes all drives and settings in the simulator app. The newest drive keeps the speed limit, so the report shows progress and still has something to practise.
+  - `shot.sh` takes one screenshot from the simulator.
+  - `compose.py` adds the captions from `captions.json` (`~/.local/mlenv/bin/python compose.py`, needs Pillow). Colours from the design profile «Skilt og vei»: road-sign blue background, a yellow centre line and white Overpass text. The phone sits in the same place on every image.
+  - `pluss-av.js` turns Pluss off and answers with the App Store price, for the review screenshot. Set the view to «Som App Store» first, or the test build turns Pluss back on.
+  - Raw screenshots go to `verktoy/raw/raw-<name>.png` (git-ignored).
+- For the 1.0.0 set, the app was driven by the remote control in the git-ignored `.local-test/sim/` (`driver.mjs` + `agent.js`, loaded together with `seed.js`), with helper scripts in `.local-test/appstore-shots/` that open a given question, tap the cars and scroll to a spot where no text is cut by the tab bar.
+- To make new ones, ask Claude to «lag nye App Store-bilder».
 
 ---
 

diff --git a/appstore/innsending.md b/appstore/innsending.md
@@ -11,7 +11,7 @@ Detaljene (tekstene, svarene og begrunnelsene) står i [README.md](README.md). H
 - [x] Appen 1.0.0: opptak og rapport, begge kameraene, teorien (420 spørsmål, 123 skilt, prøver, teoribok), sikkerhetskontrollen med quiz, opplæringsplan, trafikklærer med meldinger, Pluss-kjøpet og koder fra trafikkskolen
 - [x] Modellene som selges ligger i appen: bilmodellen D-FINE small og feltmodellen n2 (Audi krediteres under Om appen › Lisenser og kilder)
 - [x] Ikon (lyst og mørkt), tillatelsestekster, personvernmanifest som stemmer med etiketten, eksportsvar (ingen kryptering)
-- [x] App Store-bilder i [`skjermbilder/`](skjermbilder/) (6,9")
+- [x] App Store-bilder i [`skjermbilder/`](skjermbilder/) (6,9"): 8 nye bilder av 1.0.0 fra 22. november, teorien først
 - [x] Beskrivelse ([`beskrivelse.txt`](beskrivelse.txt)), navn, undertittel, nøkkelord, kampanjetekst (README del 2)
 - [x] Personvern: https://kjorerapport.jo-9fc.workers.dev/personvern/
 - [x] Hjelp og kontakt (støtte-URL): https://kjorerapport.jo-9fc.workers.dev/hjelp/
@@ -59,7 +59,7 @@ Ett kjøp, **Non-Consumable**. Feltene står i README del 12:
 
 Ikke lag den gamle prøveperioden (`…pluss.trial14`). Appen har ingen prøveperiode lenger.
 
-Last opp `kjop-pluss-review.png` som review-bilde, og lim inn review-notatet. Bildet må tas på nytt, siden Pluss-siden er endret.
+Last opp `kjop-pluss-review.png` som review-bilde, og lim inn review-notatet.
 
 ### 6. Last opp appen
 - I Xcode: velg **Any iOS Device (arm64)** øverst, så **Product › Archive**.
@@ -79,7 +79,7 @@ Last opp `kjop-pluss-review.png` som review-bilde, og lim inn review-notatet. Bi
 ### 8. Fyll ut appsiden (App Store-fanen)
 | Felt | Hva |
 |---|---|
-| Bilder (6,9") | De 7 bildene i `skjermbilder/`, i nummerrekkefølge |
+| Bilder (6,9") | De 8 bildene i `skjermbilder/`, i nummerrekkefølge |
 | Kampanjetekst, beskrivelse, nøkkelord | README del 2 og `beskrivelse.txt` |
 | Støtte-URL | https://kjorerapport.jo-9fc.workers.dev/hjelp/ |
 | Markedsførings-URL | https://kjorerapport.jo-9fc.workers.dev/trafikkskole/ (valgfri) |

diff --git a/README.md b/README.md
@@ -159,6 +159,8 @@ The owner (22 November): «1. behold navnet kjørerapport, 2. … hvis ikke beho
   - the description mentions the safety quiz;
   - the status table and the Norwegian step-by-step guide are updated;
   - new screenshots.
+- **New App Store screenshots:** 8 images, theory first, in the «Skilt og vei» colours, made from the Emma test data with `appstore/verktoy/` (section 9 in `appstore/README.md`). The Pluss review image is retaken.
+- **The full-screen map reaches the bottom edge** in the iPhone app. It used to stop above the home indicator and leave a light band. The map buttons and the source line now move in by the safe area instead.
 - **Version 1.0.0** in the app and in Xcode (`MARKETING_VERSION`). `KJ_CONFIG=Release ios/ship.sh` installs the sale version for a road test before submission.
 
 ## What's new in 0.28.1 – a quiz about the safety check, and drawings for theory and the car
